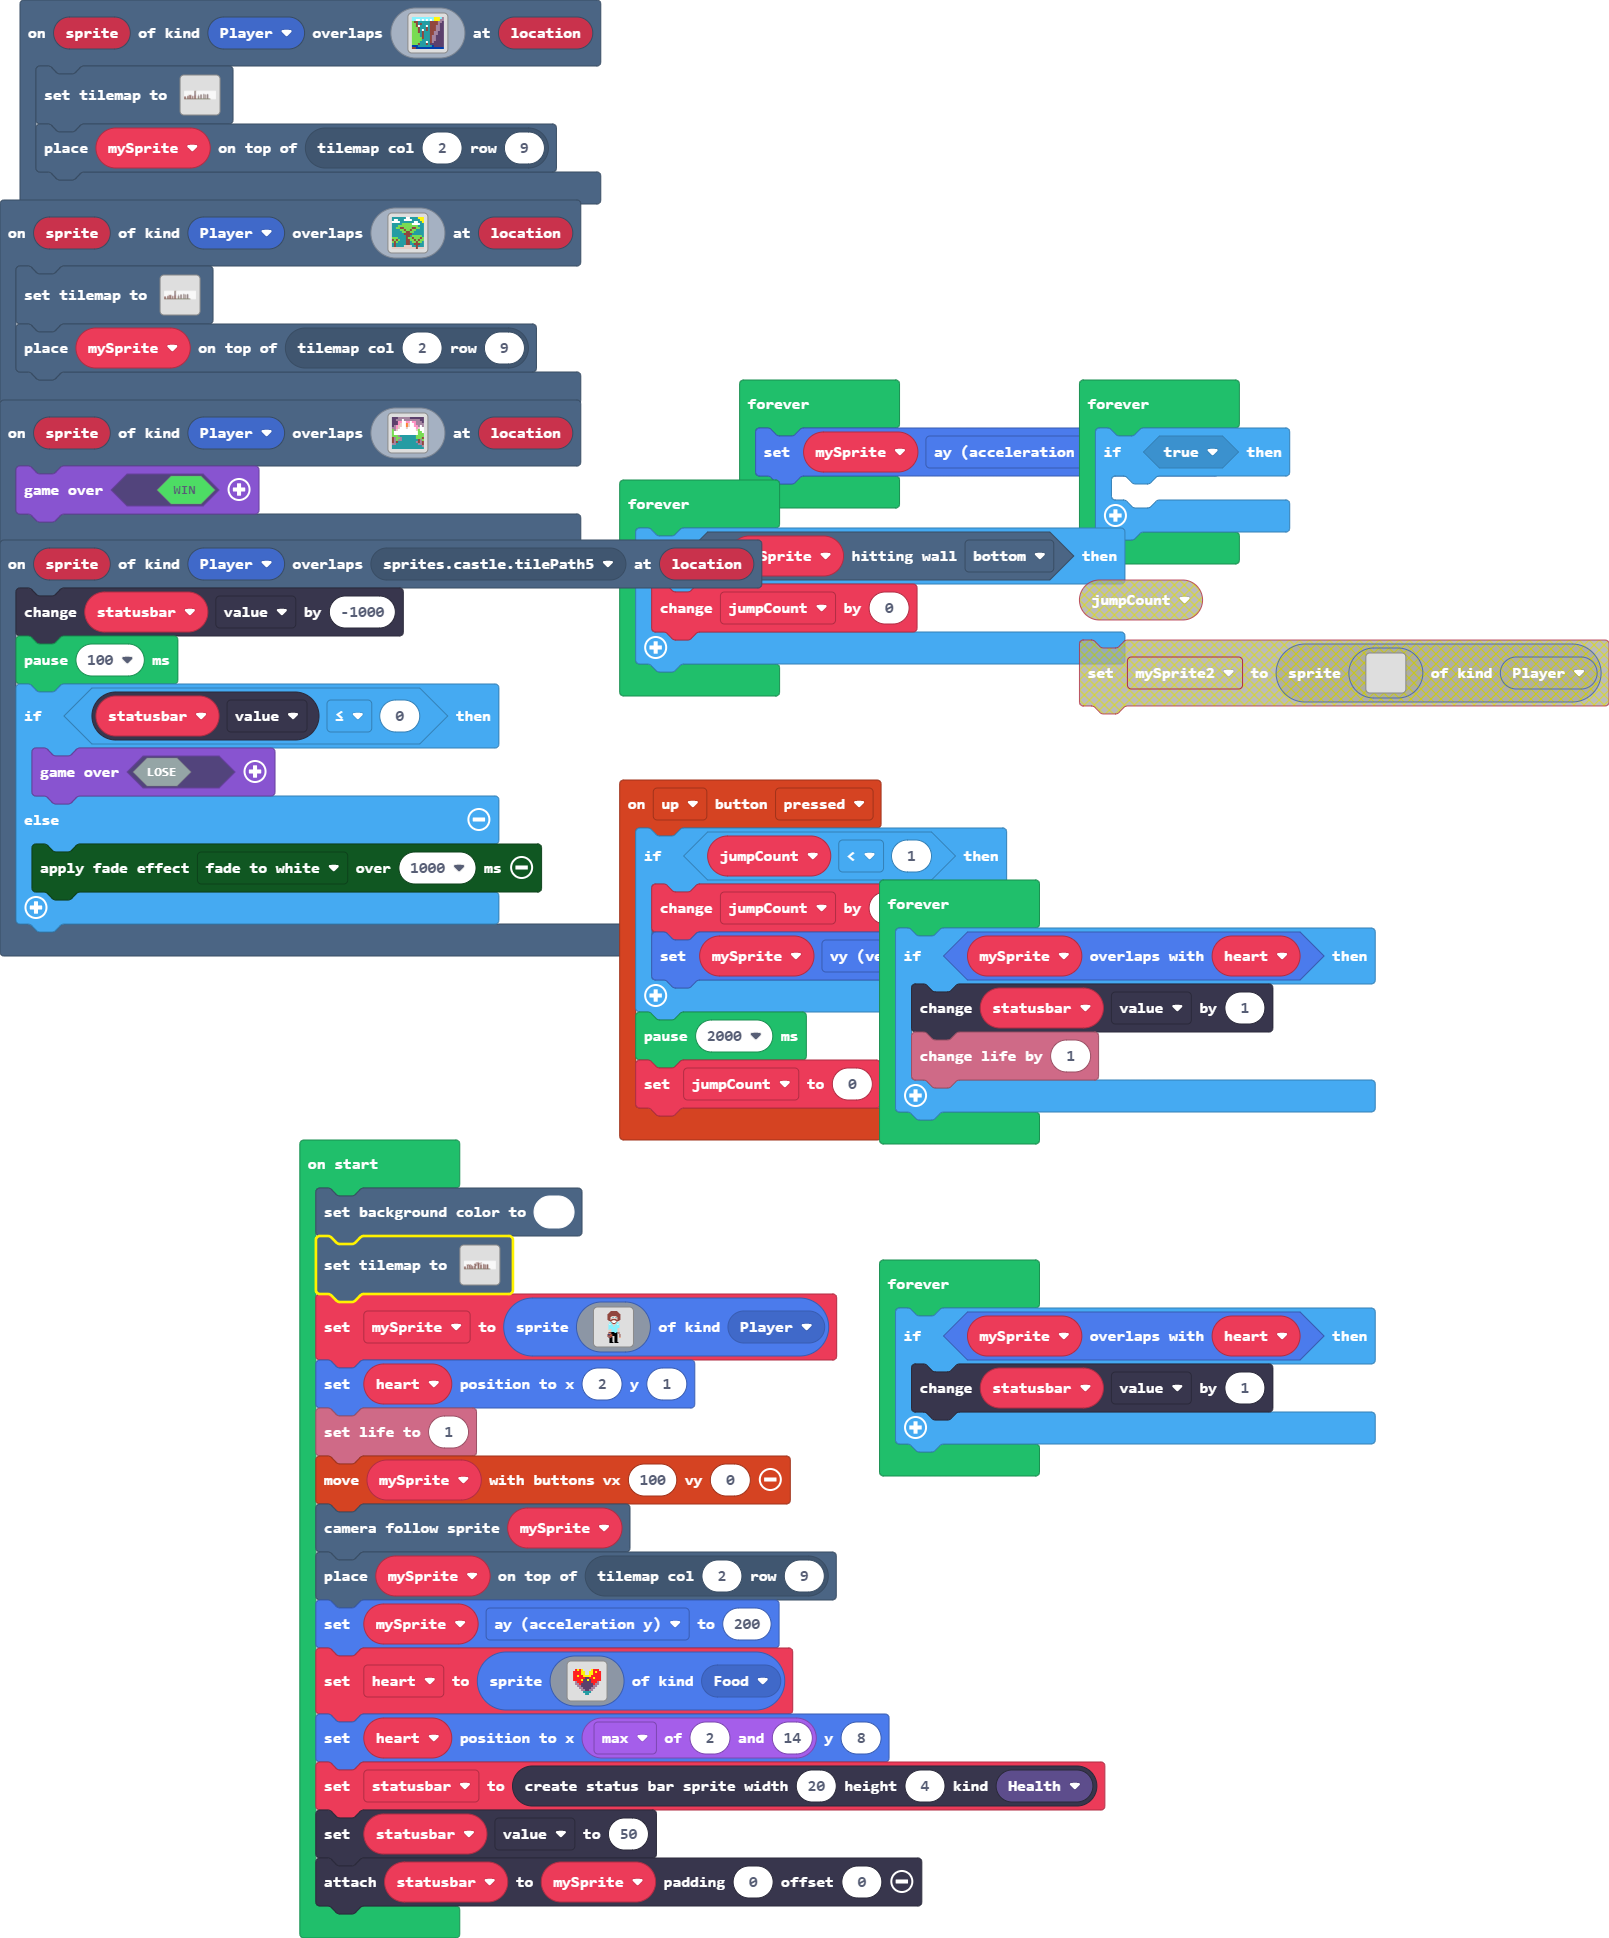
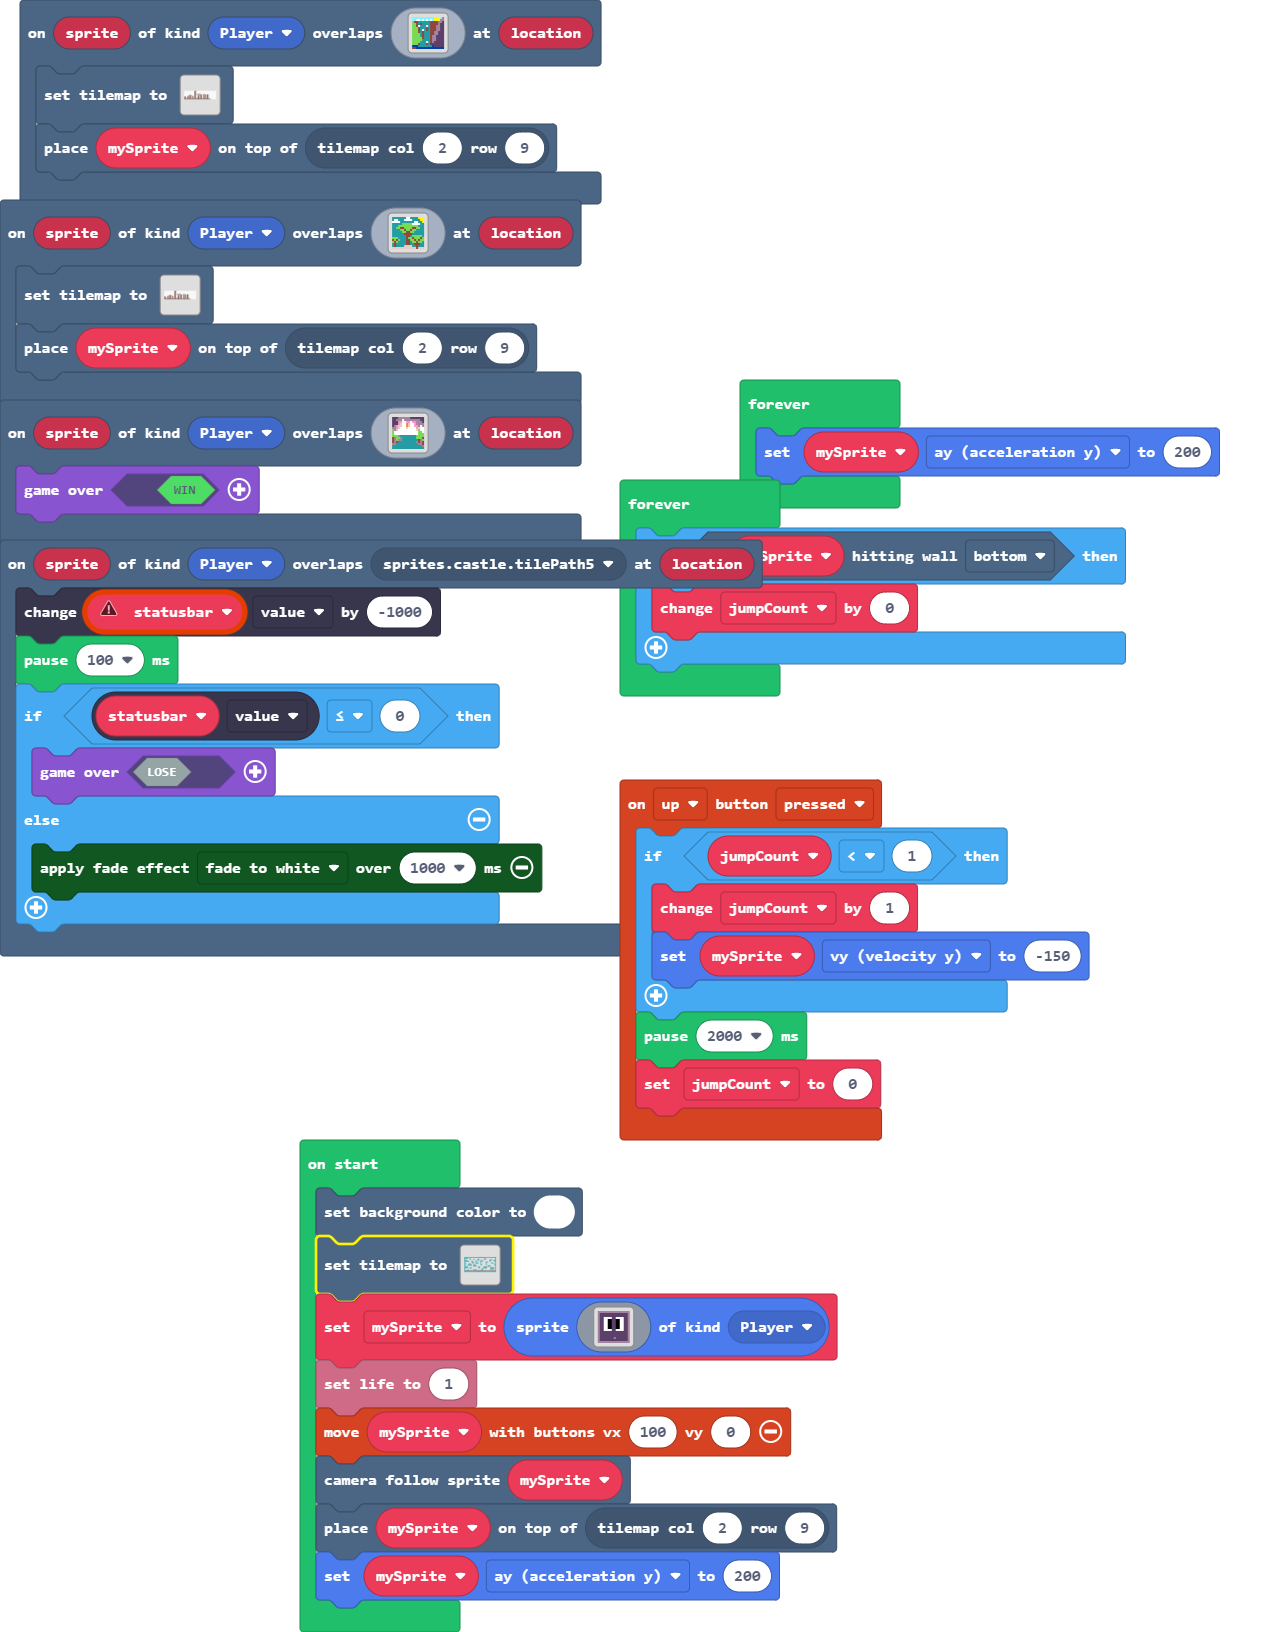
made game different

diff --git a/main.ts b/main.ts
@@ -11,6 +11,7 @@ scene.onOverlapTile(SpriteKind.Player, assets.image`paintTwo`, function (sprite,
     tiles.placeOnTile(mySprite, tiles.getTileLocation(2, 9))
 })
 scene.onOverlapTile(SpriteKind.Player, sprites.castle.tilePath5, function (sprite, location) {
+    let statusbar: StatusBarSprite = null
     statusbar.value += -1000
     pause(100)
     if (statusbar.value <= 0) {
@@ -27,44 +28,20 @@ scene.onOverlapTile(SpriteKind.Player, assets.image`paintThree`, function (sprit
     game.over(true)
 })
 let jumpCount = 0
-let statusbar: StatusBarSprite = null
-let heart: Sprite = null
 let mySprite: Sprite = null
 scene.setBackgroundColor(1)
-tiles.setTilemap(tilemap`CityScape`)
-mySprite = sprites.create(assets.image`myImage1`, SpriteKind.Player)
-heart.setPosition(2, 1)
+tiles.setTilemap(tilemap`01_level_One1`)
+mySprite = sprites.create(assets.image`myImage7`, SpriteKind.Player)
 info.setLife(1)
 controller.moveSprite(mySprite, 100, 0)
 scene.cameraFollowSprite(mySprite)
 tiles.placeOnTile(mySprite, tiles.getTileLocation(2, 9))
 mySprite.ay = 200
-heart = sprites.create(assets.image`myImage2`, SpriteKind.Food)
-heart.setPosition(Math.max(2, 14), 8)
-statusbar = statusbars.create(20, 4, StatusBarKind.Health)
-statusbar.value = 50
-statusbar.attachToSprite(mySprite, 0, 0)
 forever(function () {
     mySprite.ay = 200
 })
 forever(function () {
-    if (true) {
-    	
-    }
-})
-forever(function () {
     if (mySprite.isHittingTile(CollisionDirection.Bottom)) {
         jumpCount += 0
-    }
-})
-forever(function () {
-    if (mySprite.overlapsWith(heart)) {
-        statusbar.value += 1
-        info.changeLifeBy(1)
-    }
-})
-forever(function () {
-    if (mySprite.overlapsWith(heart)) {
-        statusbar.value += 1
     }
 })

diff --git a/images.g.ts b/images.g.ts
@@ -378,25 +378,6 @@ cccccccccccccccccccccccccccccccccccccccccccccccccccccccccccccccccccccccccccccccc
 . . . . . . . . . . . . . . . . 
 . . . . . . . . . . . . . . . . 
 `;
-            case "image13":
-            case "myImage7":return img`
-b b b b b b b b b b b b b b b b 
-b c c c c c c c c c c c c c c b 
-b c c c c c c c c c c c c c c b 
-b c c 1 1 1 1 c c 1 1 1 1 c c b 
-b c c 1 1 f f c c f f 1 1 c c b 
-b c c 1 1 f f c c f f 1 1 c c b 
-b c c 1 1 f f c c f f 1 1 c c b 
-b c c 1 1 f f c c f f 1 1 c c b 
-b c c 1 1 f f c c f f 1 1 c c b 
-b c c 1 1 1 1 c c 1 1 1 1 c c b 
-b c c c c c c c c c c c c c c b 
-b c c c c c c c c c c c c c c b 
-b c c c c c c c c c c c c c c b 
-b c c c c c c c b c c c c c c b 
-b c c c c c c c c c c c c c c b 
-b b b b b b b b b b b b b b b b 
-`;
             case "#G!wosq#?/CJ#E;SC[]n":
             case "No Asset Name":return img`
 . . . . . . . . . . . . . . . . 
@@ -415,6 +396,25 @@ b b b b b b b b b b b b b b b b
 . . . . . . . . . . . . . . . . 
 . . . . . . . . . . . . . . . . 
 . . . . . . . . . . . . . . . . 
+`;
+            case "image13":
+            case "myImage7":return img`
+b b b b b b b b b b b b b b b b 
+b c c c c c c c c c c c c c c b 
+b c c c c c c c c c c c c c c b 
+b c c 1 1 1 1 c c 1 1 1 1 c c b 
+b c c 1 1 f f c c f f 1 1 c c b 
+b c c 1 1 f f c c f f 1 1 c c b 
+b c c 1 1 f f c c f f 1 1 c c b 
+b c c 1 1 f f c c f f 1 1 c c b 
+b c c 1 1 f f c c f f 1 1 c c b 
+b c c 1 1 1 1 c c 1 1 1 1 c c b 
+b c c c c c c c c c c c c c c b 
+b c c c c c c c c c c c c c c b 
+b c c c c c c c c c c c c c c b 
+b c c c c c c c b c c c c c c b 
+b c c c c c c c c c c c c c c b 
+b b b b b b b b b b b b b b b b 
 `;
         }
         return null;
